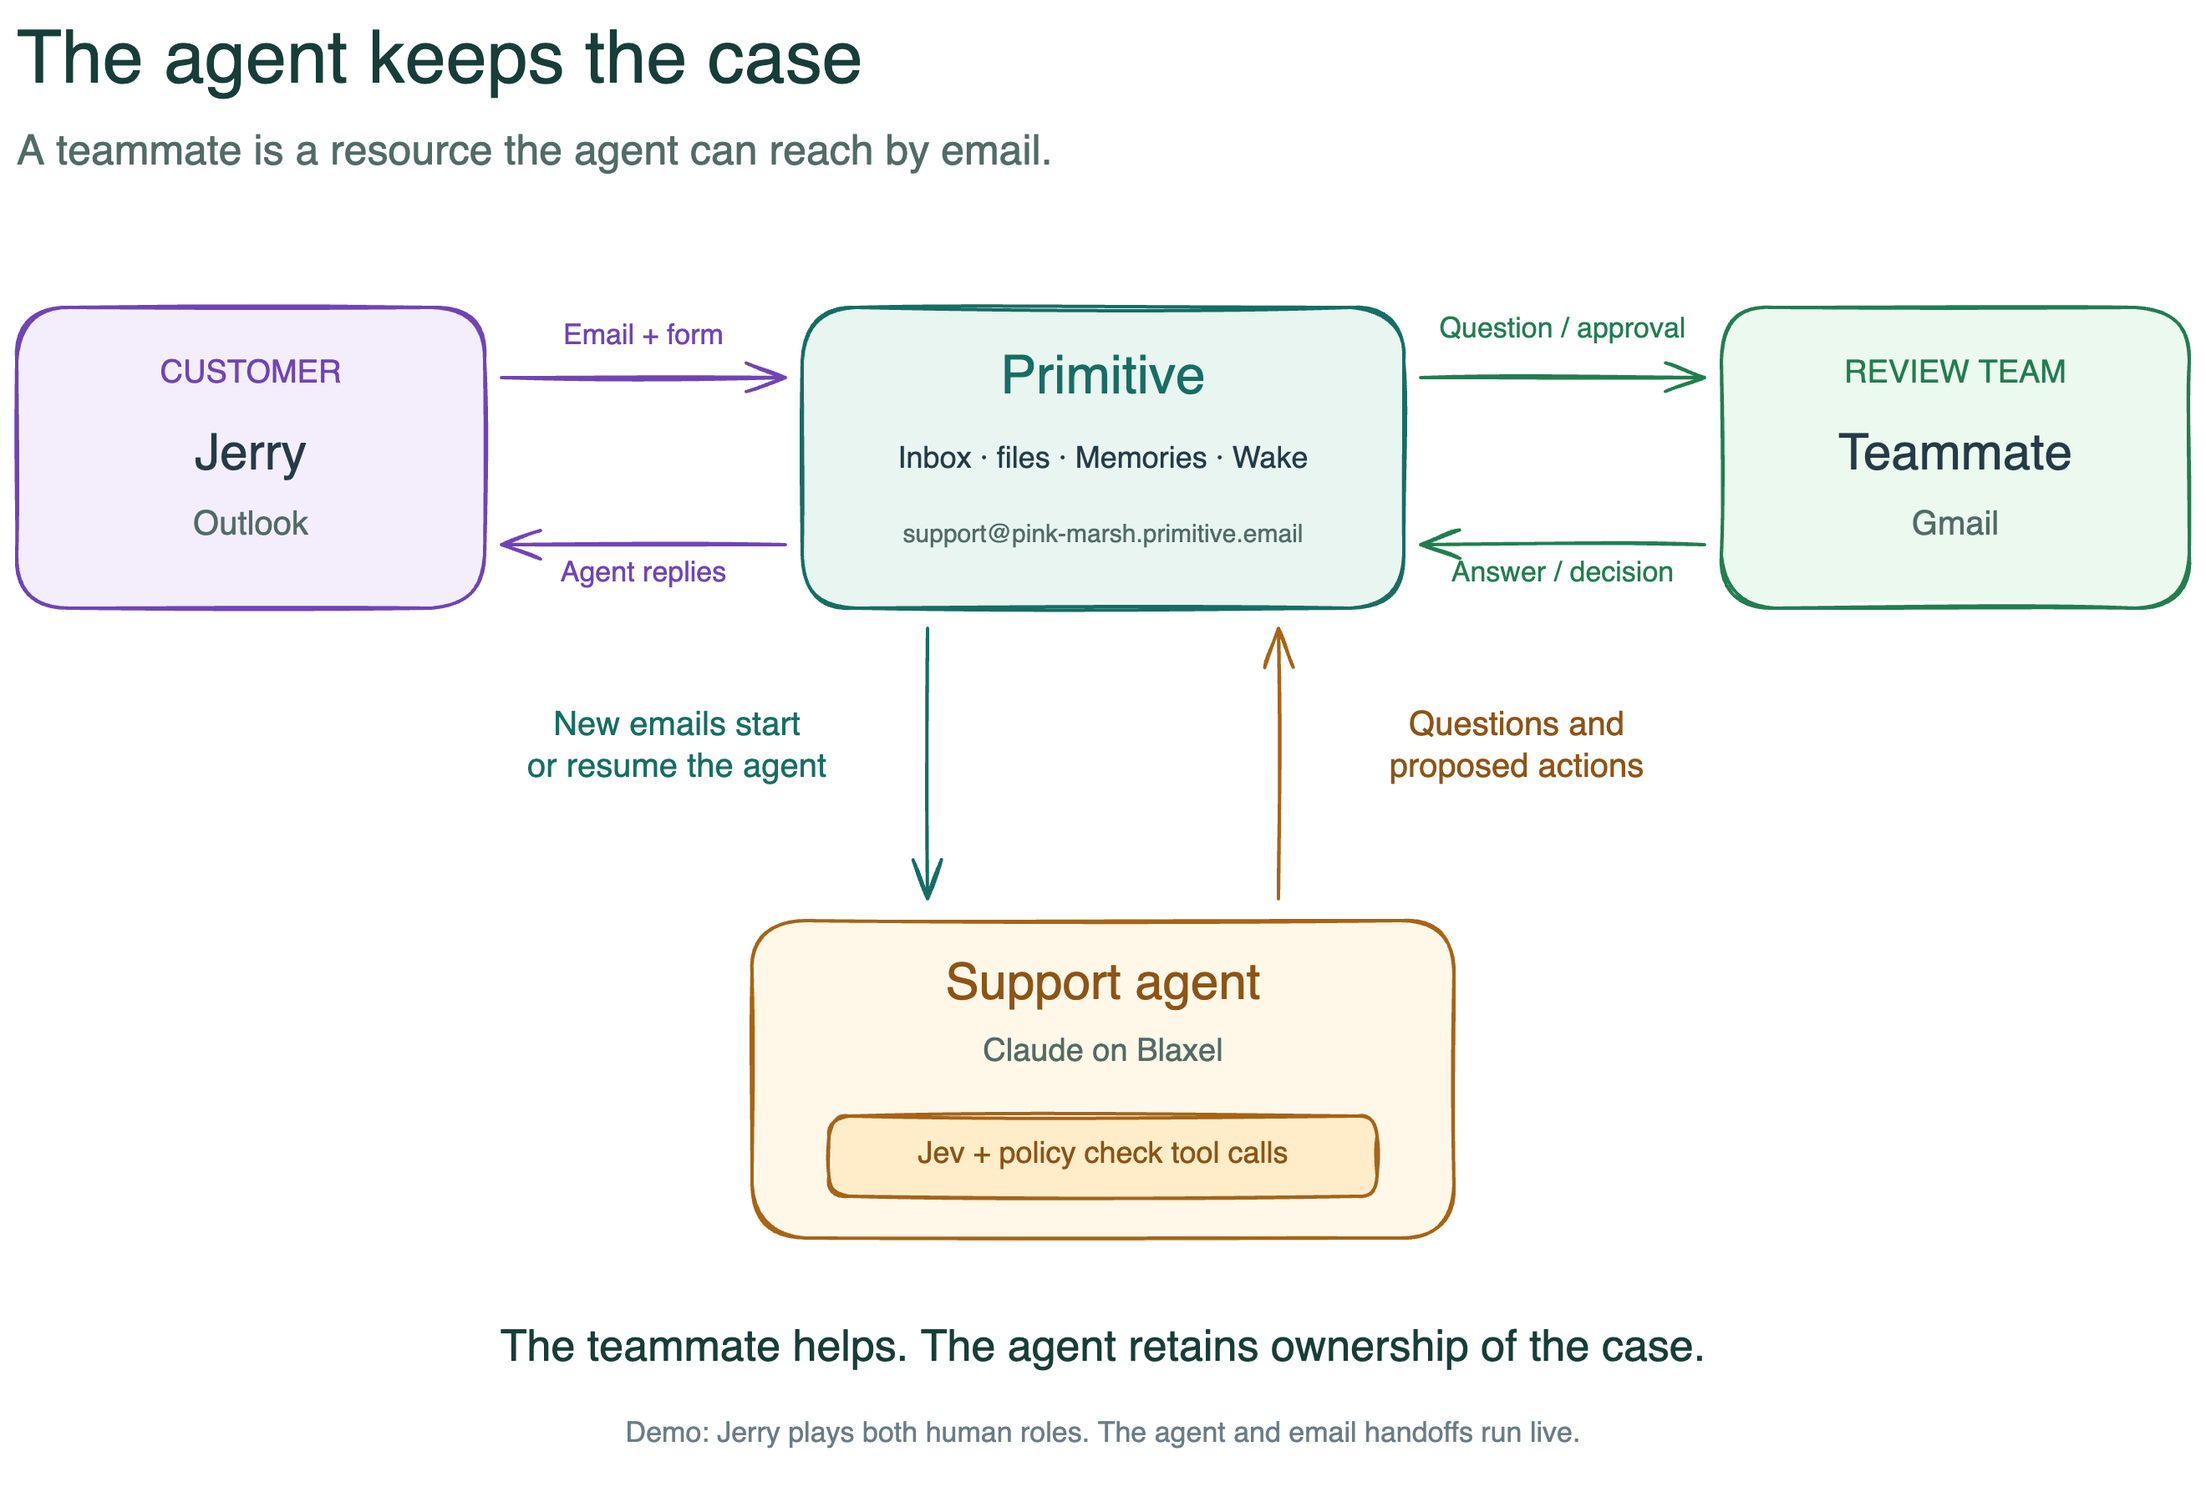
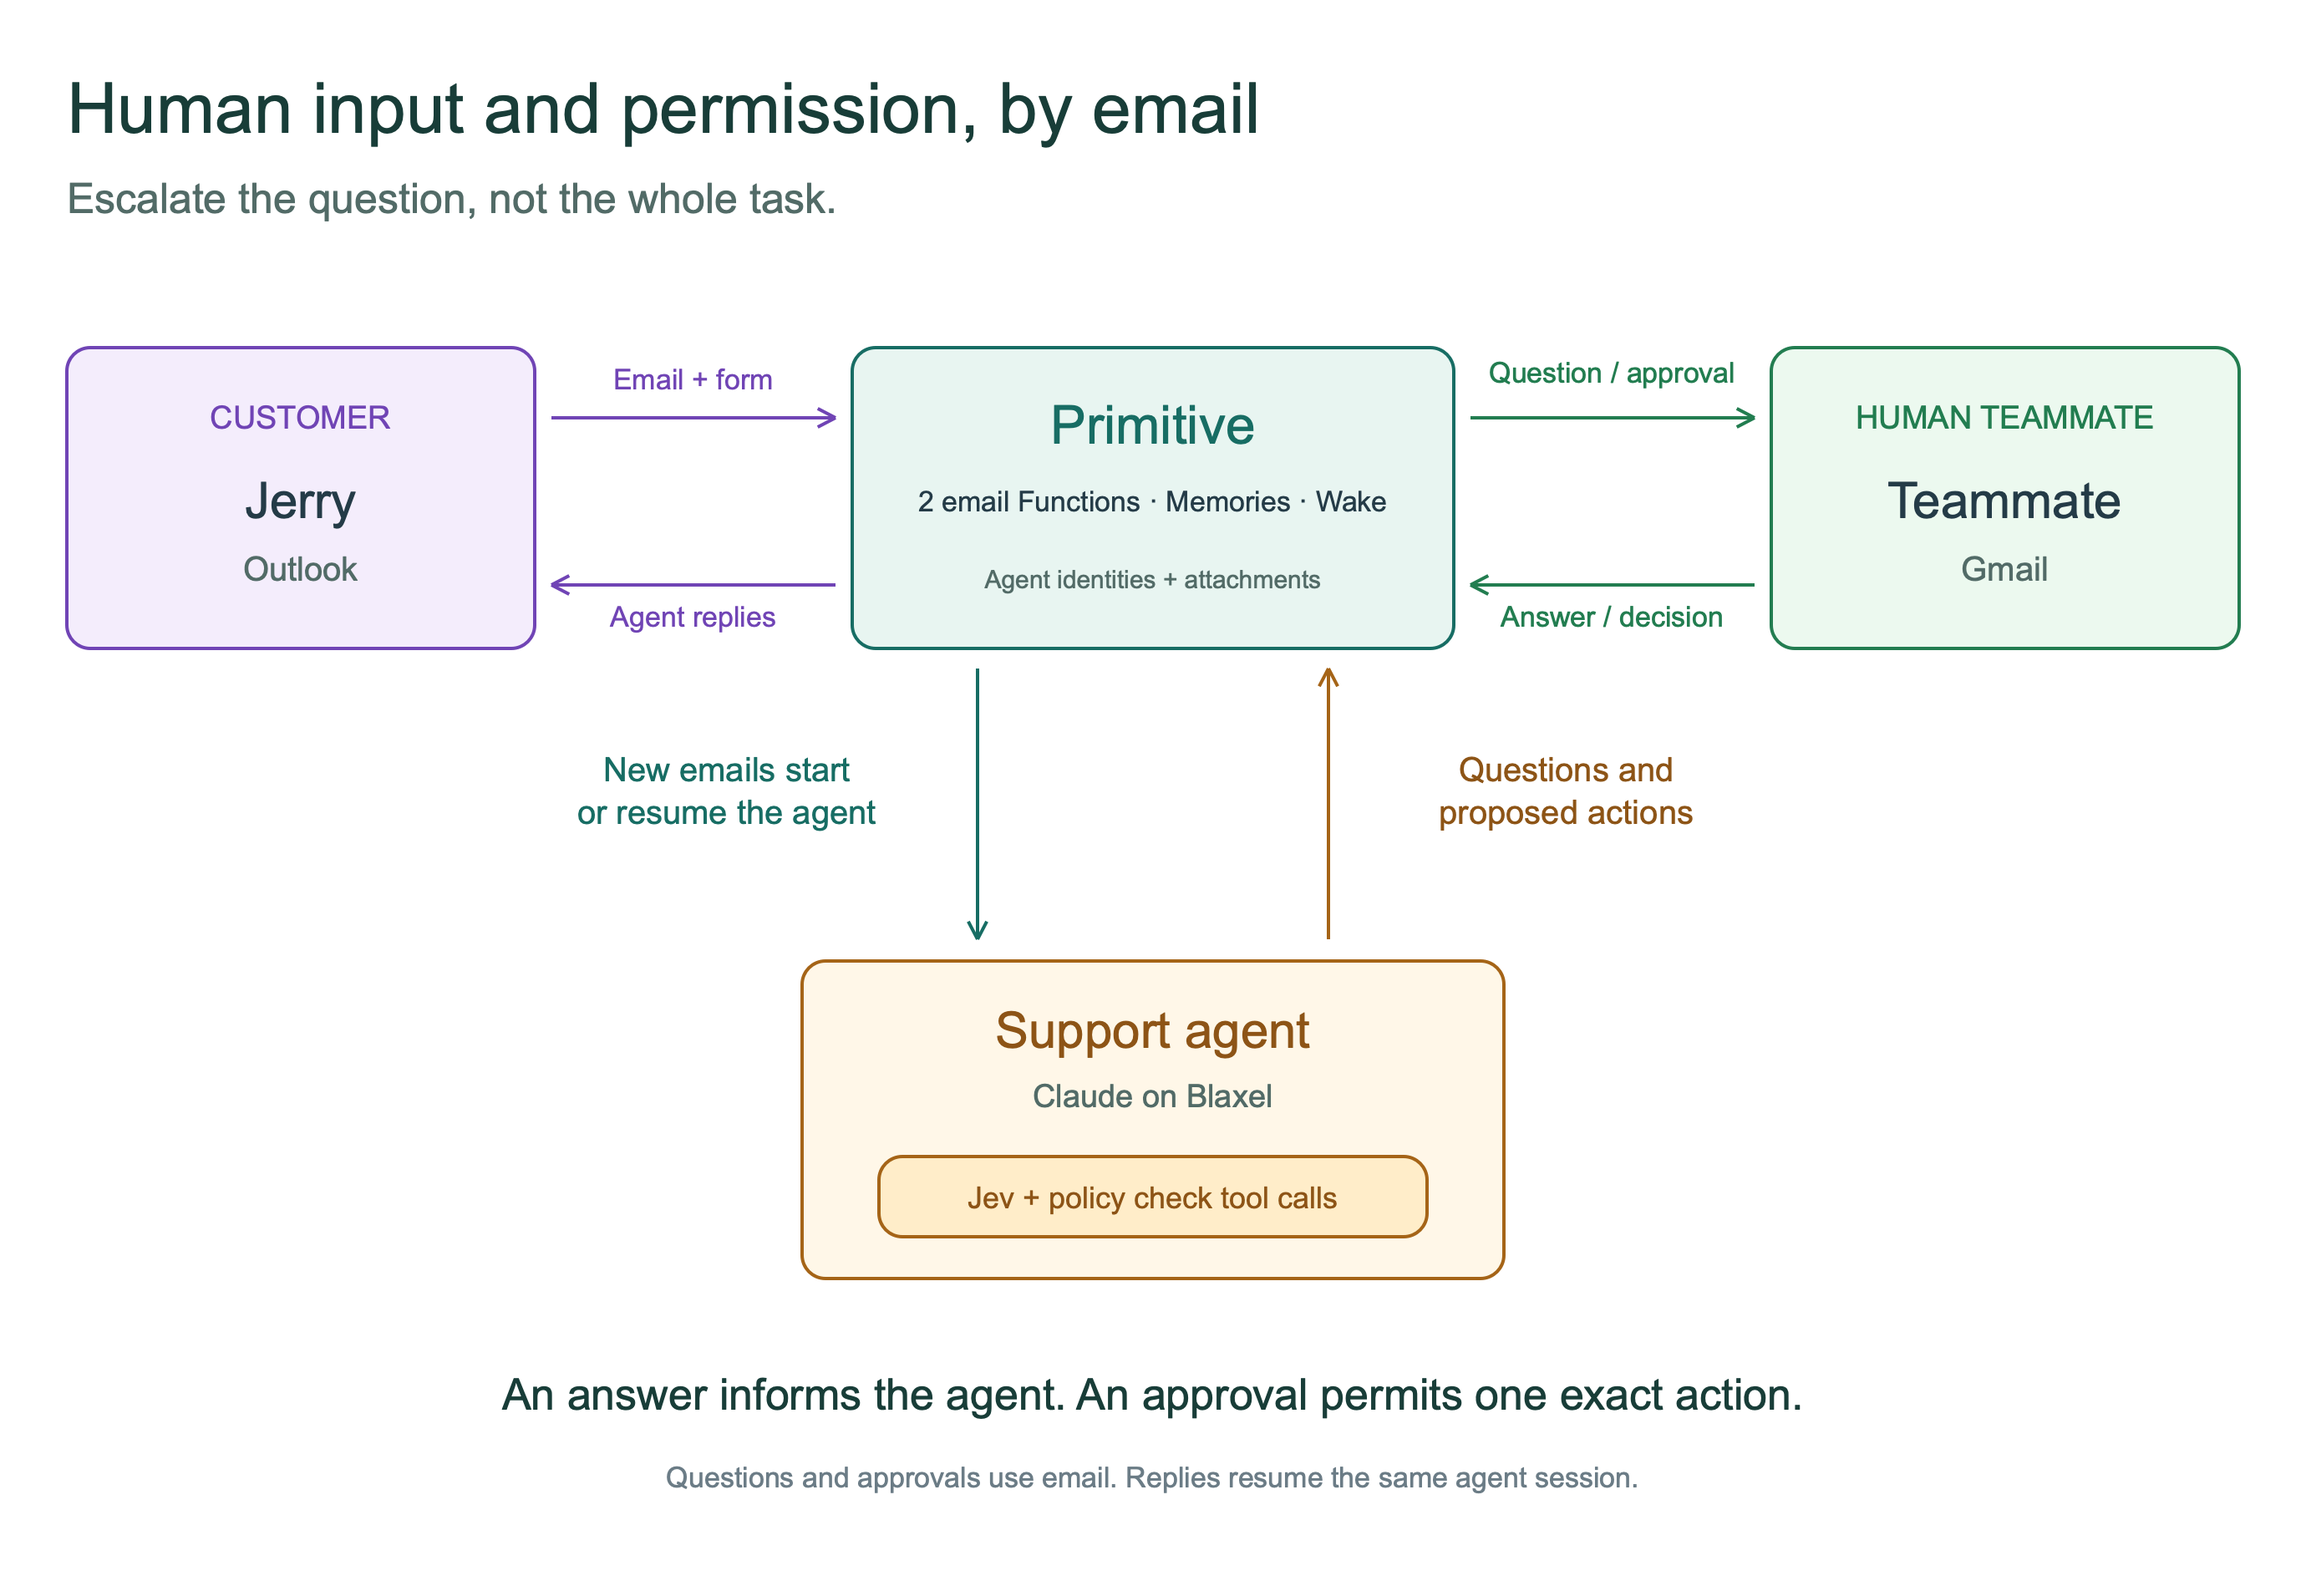
Clarify judge reading path and email question versus permission protocols

diff --git a/README.md b/README.md
@@ -1,8 +1,13 @@
 # Agent Approval Service
 
-**Escalate the question, not the whole task.**
+**Human input and permission, by email.**
 
-When an agent lacks information or authority, it emails the right teammate, waits for a reply, and continues the same task. A question supplies information; an approval permits one exact action. The agent keeps ownership of the customer conversation.
+When an agent lacks information or authority, it emails a configured teammate, waits for a reply, and continues the same task. The teammate contributes an answer or permission without taking over the customer conversation.
+
+| The agent needs…         | It sends…                                      | The reply provides…             |
+| ------------------------ | ---------------------------------------------- | ------------------------------- |
+| Information or expertise | A focused question with supporting attachments | An answer; no permission to act |
+| Authority to act         | The exact proposed action for review           | Permission for that action only |
 
 Built for YC's **Make Something Agents Want** hackathon, Primitive's **Best Agent Communication Setup** track.
 
@@ -40,17 +45,18 @@ npm run verify
 
 ## Read the code in this order
 
-| Start here                                                                   | What to look for                                                                            |
-| ---------------------------------------------------------------------------- | ------------------------------------------------------------------------------------------- |
-| [Complete workflow test](tests/intake-flow.test.mjs)                         | One executable example connecting every component                                           |
-| [Inbox entrypoint](src/functions/inbox.mjs) → [bridge](src/inbox/bridge.mjs) | Inbound email, attachments, sender checks, and duplicate-event checkpoints                  |
-| [Agent service](src/agent/service.mjs)                                       | Persistent sessions, pending work, receipt handling, and resumption                         |
-| [Tool gateway](src/gateway/gateway.mjs)                                      | Every registered tool passes trusted policy checks and independent Jev assessment           |
-| [Question service](src/questions/service.mjs)                                | Ask a configured teammate; treat the reply as information, without granting authority       |
-| [Approval service](src/approval/service.mjs)                                 | Freeze an exact action, authenticate a decision, dispatch execution, and reconcile delivery |
-| [Support agent](agents/support/README.md)                                    | Application tools, messages, form fields, and case state                                    |
+`src/` contains reusable infrastructure. `agents/support/` supplies the eyewear application. `scripts/` builds and deploys them; `tests/` connects them without live credentials.
 
-Two small composition roots wire these parts together: [`inbox.mjs`](src/functions/inbox.mjs) and [`approval.mjs`](src/functions/approval.mjs). Shared code in `src/` has no imports from the support application, except where these roots explicitly wire it in. An [architecture test](src/architecture.test.mjs) enforces that boundary.
+| Start here                                                                                       | What to look for                                                              |
+| ------------------------------------------------------------------------------------------------ | ----------------------------------------------------------------------------- |
+| [Inbox entrypoint](src/functions/inbox.mjs) → [bridge](src/inbox/bridge.mjs)                     | How an incoming email becomes an authenticated agent event                    |
+| [Support agent wiring](agents/support/server.mjs) → [tools and policy](agents/support/tools.mjs) | The application plugged into the shared runtime and gateway                   |
+| [Agent service](src/agent/service.mjs)                                                           | Saved sessions, pending work, receipts, and resumption                        |
+| [Tool gateway](src/gateway/gateway.mjs)                                                          | Trusted policy and independent Jev assessment before registered tools run     |
+| [Question service](src/questions/service.mjs) / [approval service](src/approval/service.mjs)     | Information replies versus one-use permission for an exact action             |
+| [Complete workflow test](tests/intake-flow.test.mjs)                                             | The whole journey, with test adapters first and the email scenario below them |
+
+Two small composition roots wire these parts together: [`inbox.mjs`](src/functions/inbox.mjs) and [`approval.mjs`](src/functions/approval.mjs). Shared code in `src/` has no imports from the support application, except where a composition root explicitly wires it in. An [architecture test](src/architecture.test.mjs) enforces that boundary.
 
 ## What Primitive does
 

diff --git a/docs/architecture.md b/docs/architecture.md
@@ -1,6 +1,13 @@
 # Architecture
 
-Two Primitive Functions and one Blaxel agent runtime handle the complete workflow.
+Two Primitive Functions and one Blaxel agent runtime handle the complete workflow. “Approval Service” names the project; questions and approvals are separate reusable services within it.
+
+| Request                | Reply                                                           | What resumes the agent                                                  |
+| ---------------------- | --------------------------------------------------------------- | ----------------------------------------------------------------------- |
+| `question.request/1`   | A configured teammate answers in the original email thread      | `question.receipt/1` supplies information; it grants no authority       |
+| `permission.request/1` | The authorized reviewer approves, declines, or requests changes | `permission.receipt/1` reports the outcome after any approved execution |
+
+The agent stops its turn while a request is pending. A later email receipt starts another turn with the saved Claude session; no process waits on an open chat for the human.
 
 ```mermaid
 sequenceDiagram
